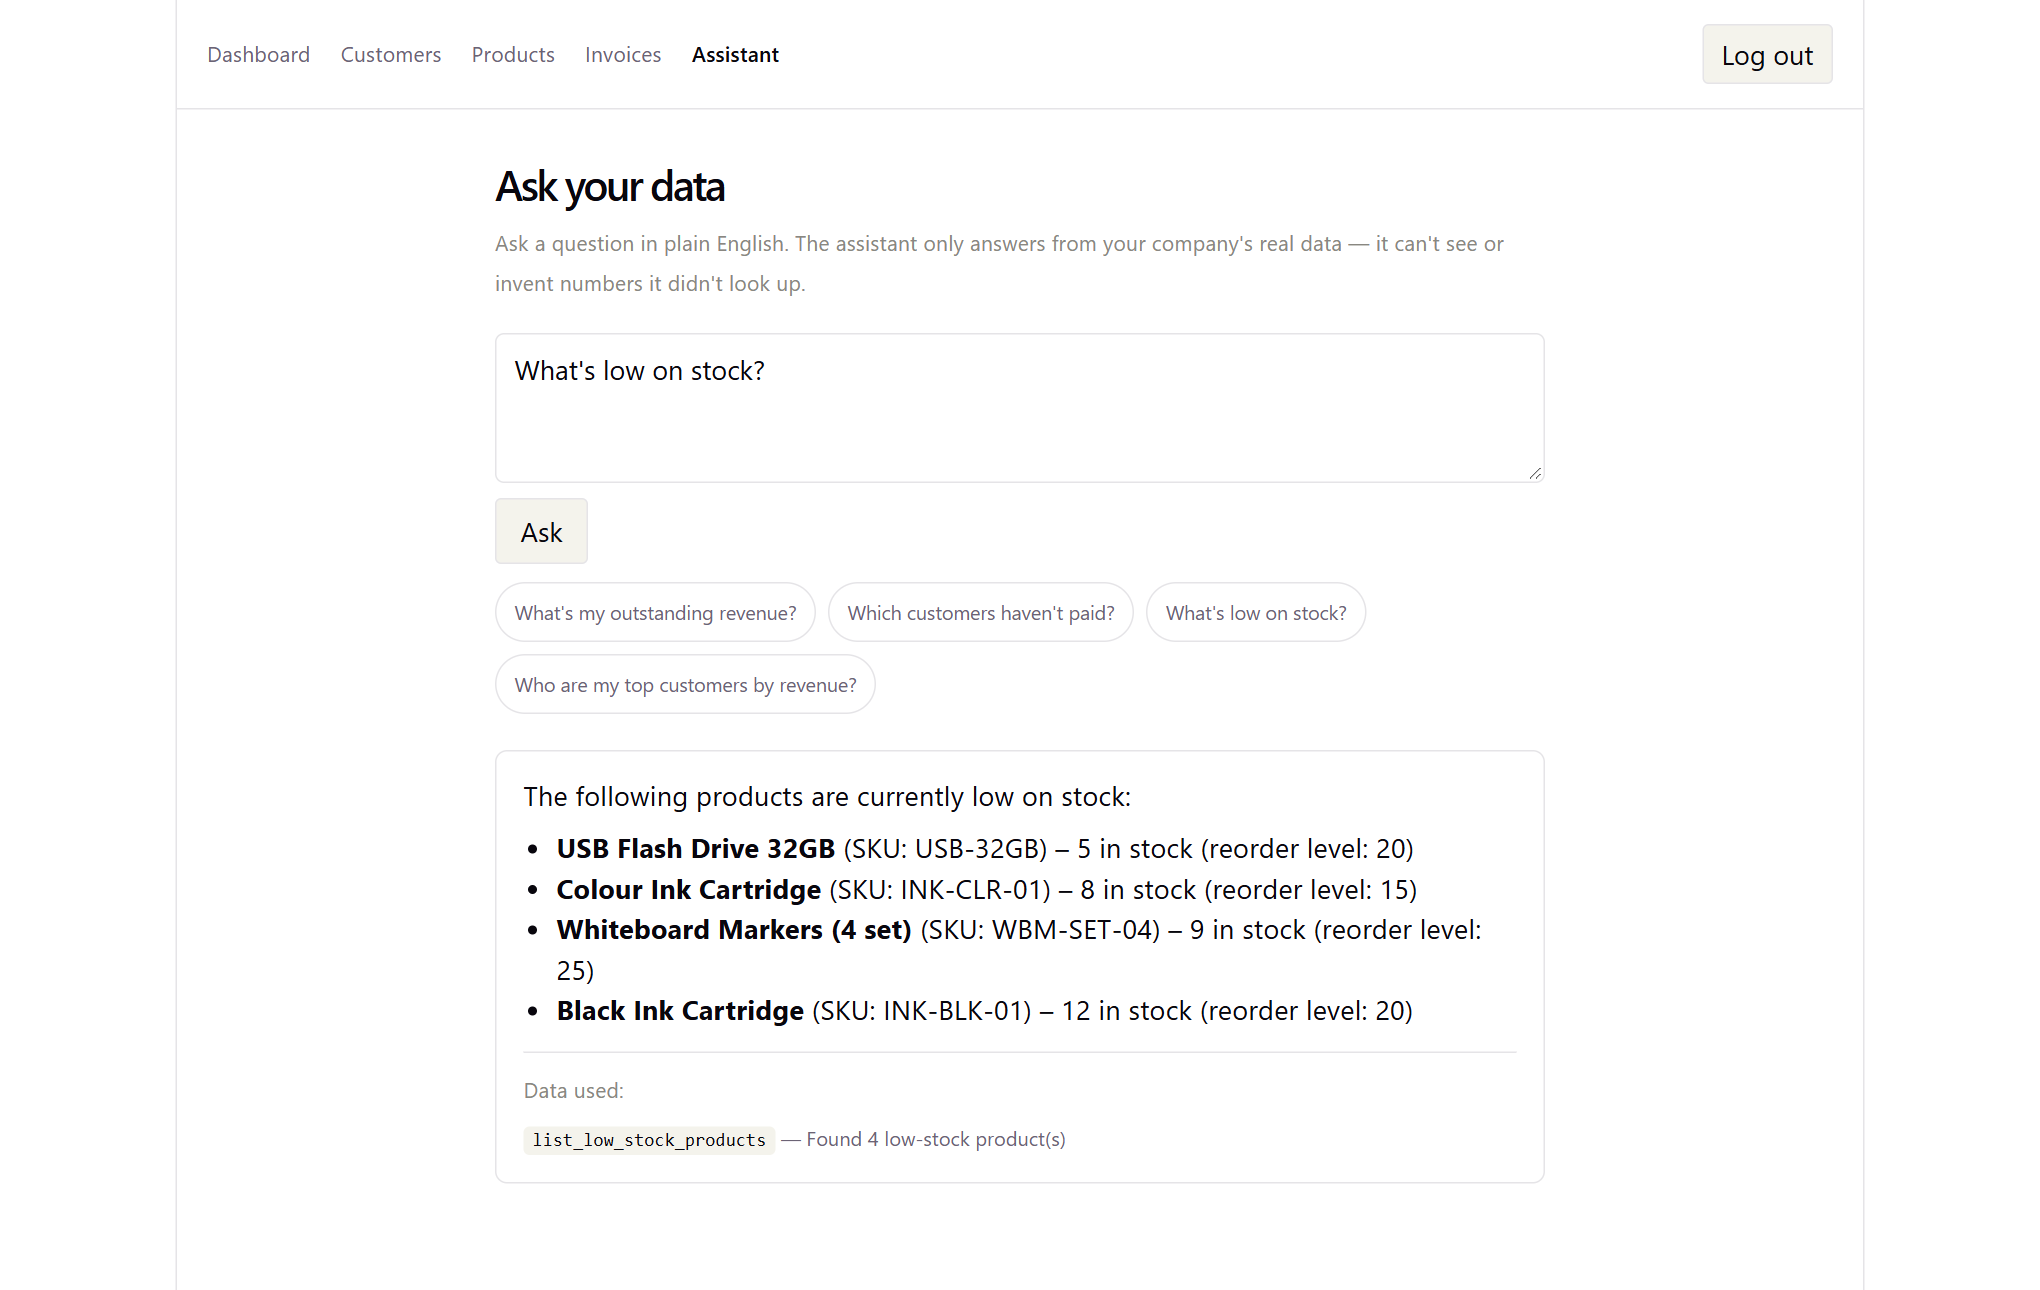
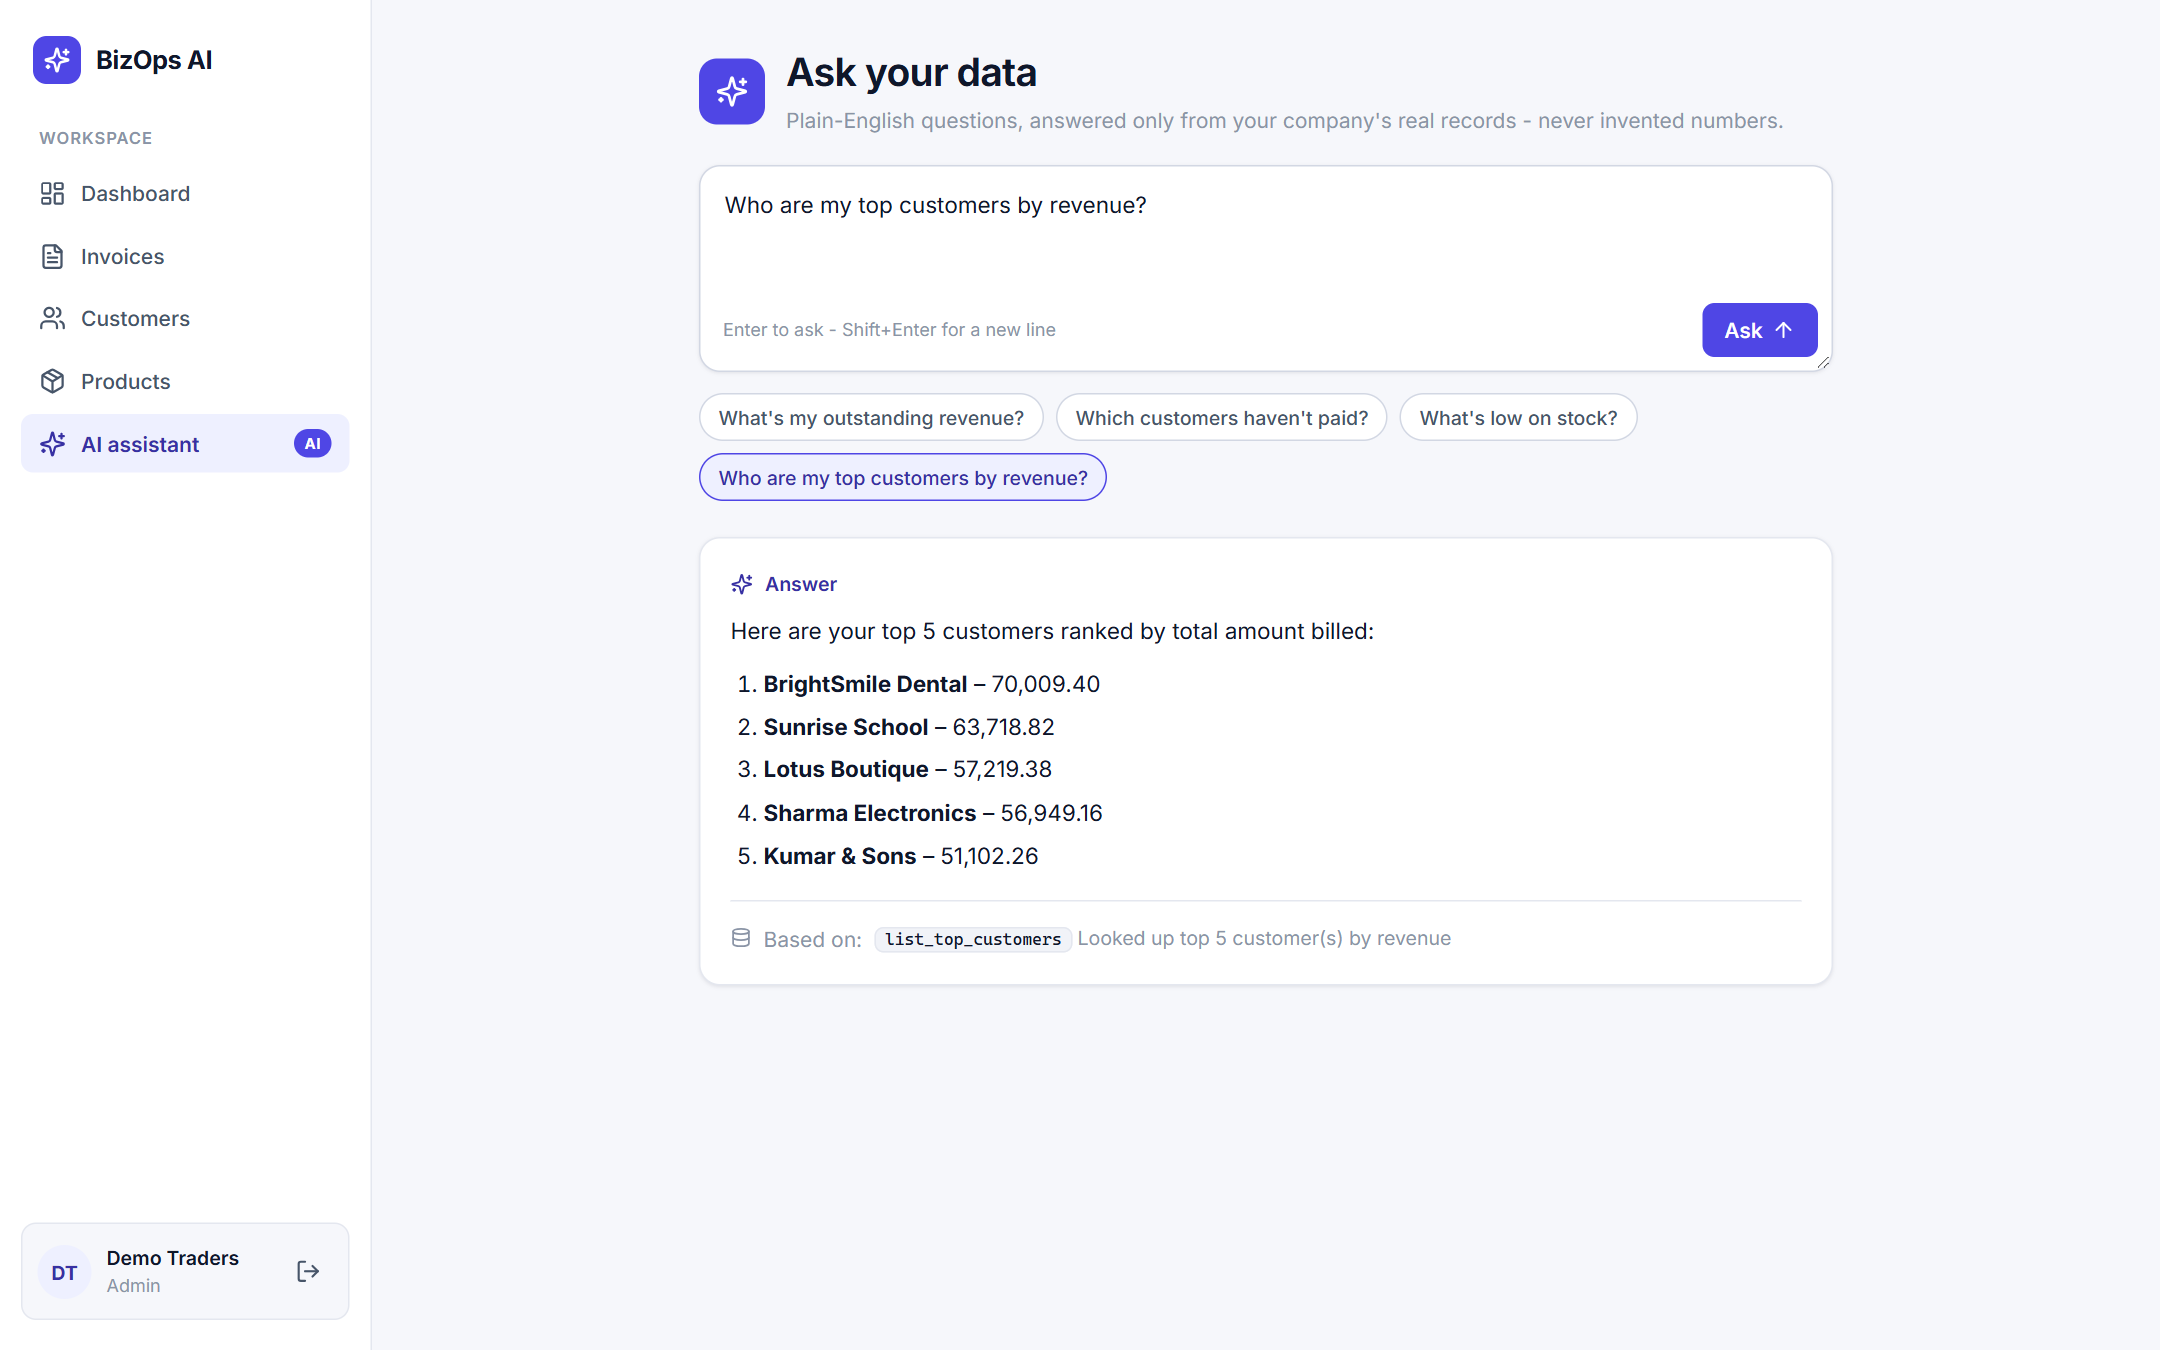
Refresh screenshots and link-preview image for the redesign

diff --git a/README.md b/README.md
@@ -13,6 +13,10 @@ Click **Admin**, **Manager** or **Employee** on the login page to sign in to a s
 |---|---|
 | ![AI assistant](docs/screenshots/assistant.png) | ![Invoices](docs/screenshots/invoices.png) |
 
+| One-click demo login | |
+|---|---|
+| ![Login](docs/screenshots/login.png) | Light and dark mode, responsive down to phone width. |
+
 ---
 
 ## Features
@@ -27,7 +31,7 @@ Click **Admin**, **Manager** or **Employee** on the login page to sign in to a s
 
 | Layer | Technology |
 |---|---|
-| Frontend | React 19, TypeScript, Vite, React Router |
+| Frontend | React 19, TypeScript, Vite, React Router, Lucide icons |
 | Backend | Python 3.12, FastAPI, SQLAlchemy 2, Alembic, Pydantic |
 | Database | PostgreSQL |
 | AI | Google Gemini (function calling) |
